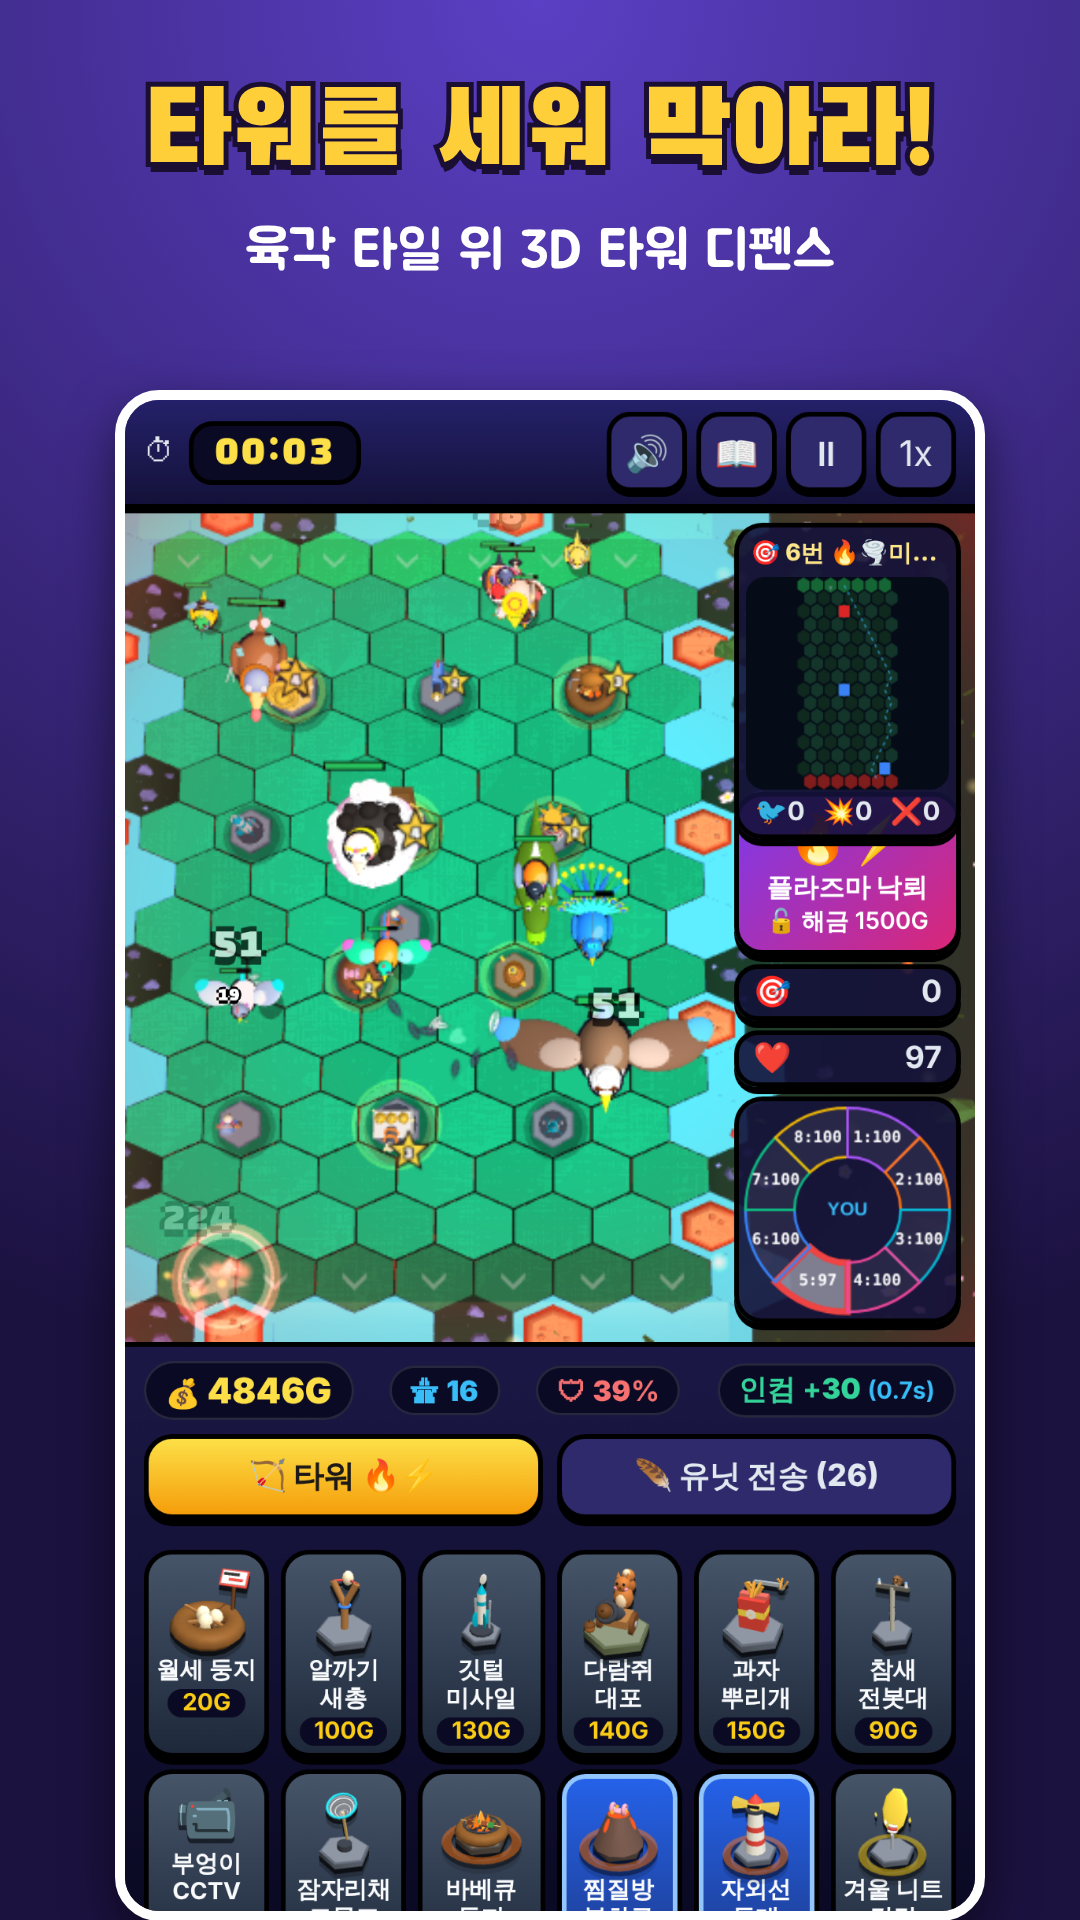
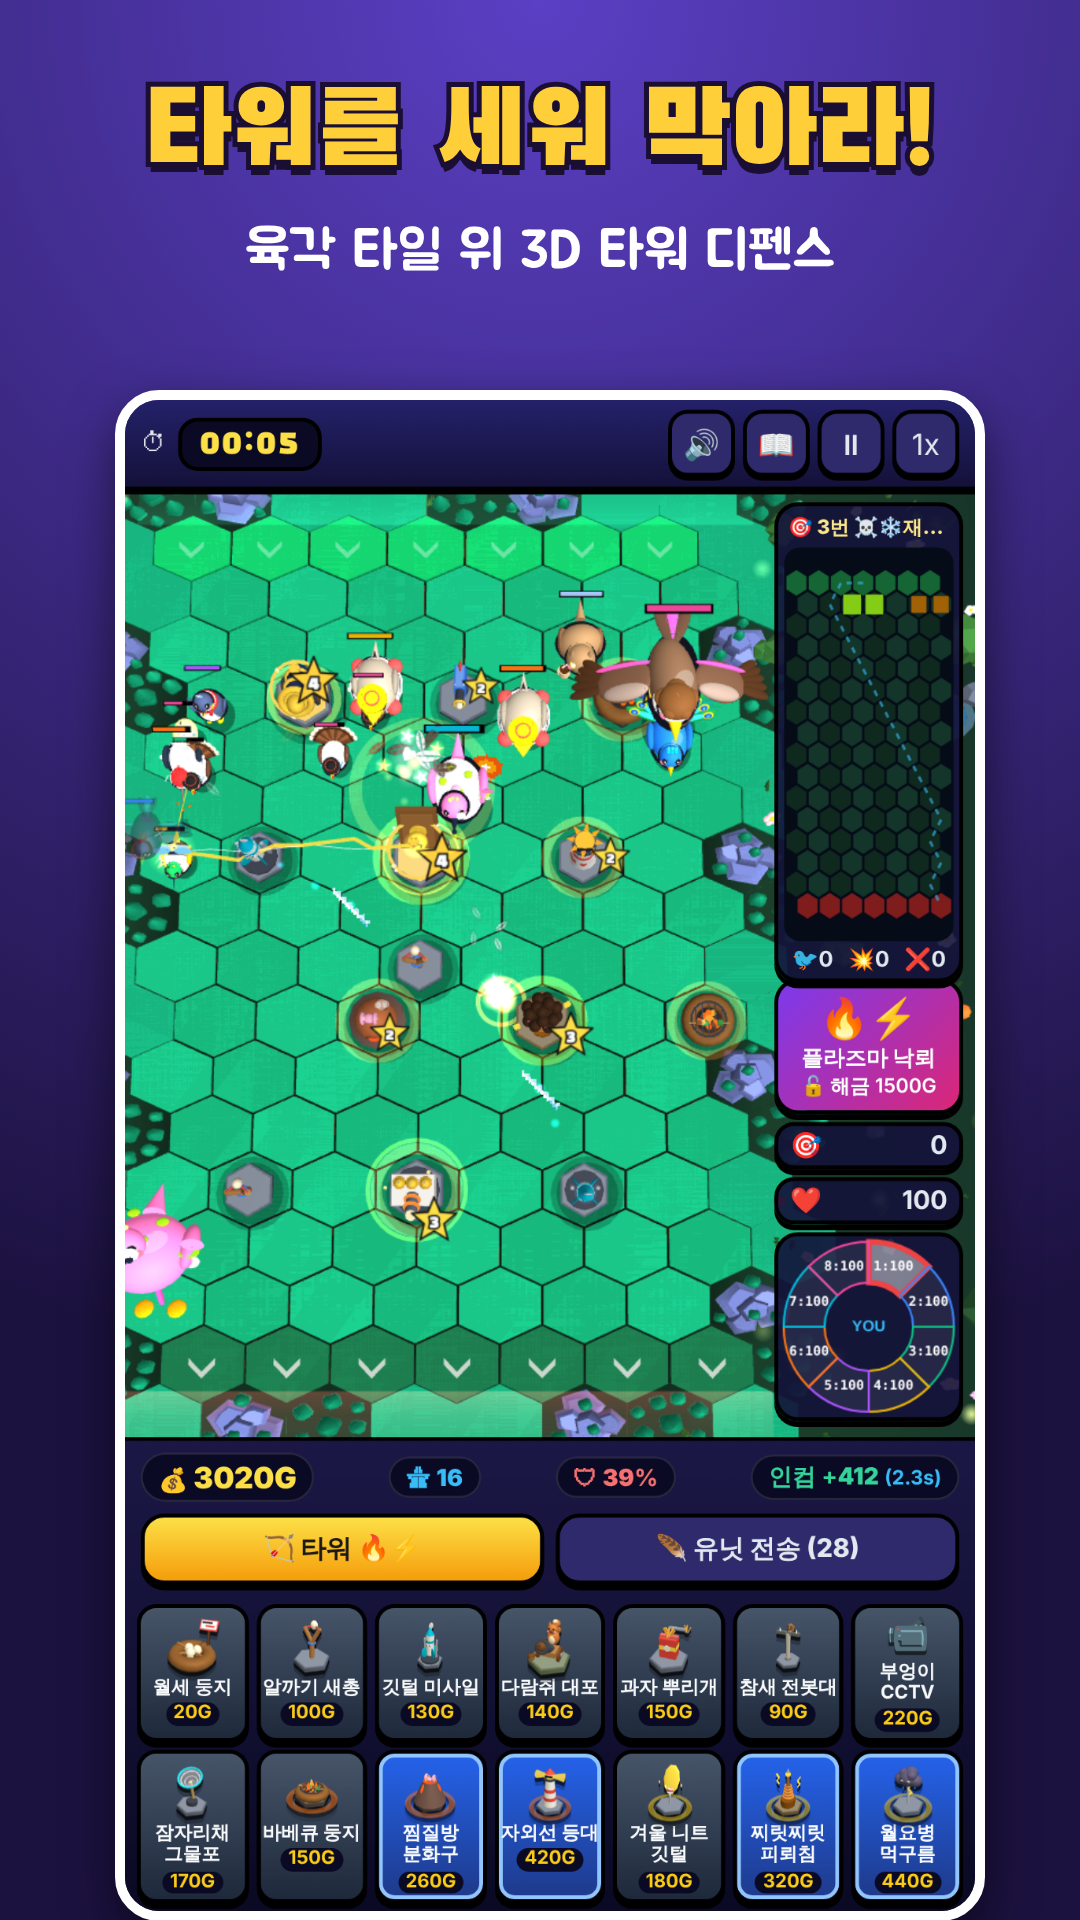
스토어 이미지 다시 뽑기: 스크린샷 8장·그래픽 이미지·og 카드·등록 문구 최신화
Claude-Session: https://claude.ai/code/session_01WdwmgQ1X9No8TXxhVpqQwz

diff --git a/tools/store_art/screenshots.js b/tools/store_art/screenshots.js
@@ -1,6 +1,6 @@
 const {chromium}=require('playwright');const SP=process.argv[2];
-const L=[['s2_battle','타워를 세워 막아라!','육각 타일 위 3D 타워 디펜스','#ffcf3a'],['s3_kill','이상한 새 55종 출동','발레리나 타조부터 악어새까지','#ff7aa8'],
-['s4_units','새를 보내 상대를 공격!','보낼수록 인컴이 쑥쑥','#6fe0ff'],['s5_result','8명 중 최후의 1인','원형으로 이어 달리는 릴레이 대전','#9dff7a'],['s1_lobby','나만의 영웅 새 꾸미기','모자·표정·이름까지 내 맘대로','#ffb347'],['s6_codex','개성 만점 새 도감','새마다 웃긴 사연이 있어요','#c4b5fd']];
+const L=[['s2_battle','타워를 세워 막아라!','육각 타일 위 3D 타워 디펜스','#ffcf3a'],['s3_weird','이상한 새 55종 출동','만원 버스 펠리컨부터 시조새까지','#ff7aa8'],
+['s8_skill','속성 조합 필살기!','5속성 중 2개를 골라 터뜨려요','#fb923c'],['s4_units','새를 보내 상대를 공격!','보낼수록 인컴이 쑥쑥','#6fe0ff'],['s7_mode','진화하는 알파고 AI','수천 판 스스로 학습한 AI와 대결','#a5f3fc'],['s5_result','8명 중 최후의 1인','원형으로 이어 달리는 릴레이 대전','#9dff7a'],['s1_lobby','나만의 영웅 새','좋아하는 새를 골라 이름을 붙여요','#ffb347'],['s6_codex','개성 만점 새 도감','새마다 웃긴 사연이 있어요','#c4b5fd']];
 (async()=>{const b=await chromium.launch();const pg=await b.newPage({viewport:{width:1080,height:1920}});
 for(const [i,[f,t,s,c]] of L.entries()){await pg.setContent(`<html><head><link rel="stylesheet" href="https://fonts.googleapis.com/css2?family=Black+Han+Sans&family=Jua&display=swap"></head>
 <body style="margin:0;width:1080px;height:1920px;overflow:hidden;background:radial-gradient(circle at 50% 0%,#5b3fc4,#1c1240 70%);font-family:'Black Han Sans',sans-serif;text-align:center">

diff --git a/tools/store_art/og_card.js b/tools/store_art/og_card.js
@@ -16,7 +16,7 @@ h1{margin:0;font:400 104px/1.02 'Black Han Sans';color:#ffd43b;-webkit-text-stro
 .n{position:absolute;left:50%;bottom:-24px;transform:translateX(-50%);white-space:nowrap;background:#140b33;color:#fde68a;border-radius:99px;padding:5px 16px 3px;font-size:24px;border:3px solid #fff}
 </style></head><body><div class="bg"></div><div class="sh"></div>
 <div class="l"><div class="sir">🚨 AI 속보</div><h1>새떼 주의보</h1><div class="sub">짹짹 디펜스</div><div class="t">8명이 이어 달리는 <b>새떼 타워 디펜스</b></div>
-<div class="bd"><span>🐦 이상한 새 55종</span><span>🏹 타워 42종</span><span>✨ 조합 스킬 10종</span><span>👥 8인 대전</span></div></div>
+<div class="bd"><span>🐦 이상한 새 55종</span><span>🏹 타워 41종</span><span>🤖 알파고 AI</span><span>👥 8인 대전</span></div></div>
 <div class="cta">▶ 설치 없이 바로 플레이</div>
 <div class="c" style="left:672px;top:258px;transform:rotate(-12deg);background-image:url(${U('dodo')})"><div class="n">각설이 도도새</div></div>
 <div class="c" style="left:948px;top:300px;width:236px;height:236px;transform:rotate(11deg);background-image:url(${U('parrot')})"><div class="n">욕쟁이 앵무새</div></div>

diff --git a/tools/store_art/feature_graphic.js b/tools/store_art/feature_graphic.js
@@ -16,7 +16,7 @@ h1{margin:0;font:400 104px/1.02 'Black Han Sans';color:#ffd43b;-webkit-text-stro
 .n{position:absolute;left:50%;bottom:-24px;transform:translateX(-50%);white-space:nowrap;background:#140b33;color:#fde68a;border-radius:99px;padding:5px 16px 3px;font-size:24px;border:3px solid #fff}
 </style></head><body><div class="bg"></div><div class="sh"></div>
 <div class="l"><div class="sir">🚨 AI 속보</div><h1>새떼 주의보</h1><div class="sub">짹짹 디펜스</div><div class="t">8명이 이어 달리는 <b>새떼 타워 디펜스</b></div>
-<div class="bd"><span>🐦 이상한 새 55종</span><span>🏹 타워 42종</span><span>✨ 조합 스킬 10종</span><span>👥 8인 대전</span></div></div>
+<div class="bd"><span>🐦 이상한 새 55종</span><span>🏹 타워 41종</span><span>🤖 알파고 AI</span><span>👥 8인 대전</span></div></div>
 
 <div class="c" style="left:672px;top:258px;transform:rotate(-12deg);background-image:url(${U('dodo')})"><div class="n">각설이 도도새</div></div>
 <div class="c" style="left:948px;top:300px;width:236px;height:236px;transform:rotate(11deg);background-image:url(${U('parrot')})"><div class="n">욕쟁이 앵무새</div></div>

diff --git a/CLAUDE.md b/CLAUDE.md
@@ -122,3 +122,4 @@
 - 🧱 **v15.4 후반 헛손질 수정**(2026-11-17 사용자 헬 17분 캡처 '뒷줄·측면에 계속 벽 짓고 업그레이드·철거', 골드 10만+ 남음): ① 진짜 버그 — `mzRepair`가 설계도 밖 **모든 공격 타워**를 철거 대상으로 봐서(두루미 한 번만 와도 `p.crHit`가 계속 남음) 빈칸 채우기로 지은 타워를 부수고 다시 짓는 무한 반복 → 이제 두루미가 옮긴 `t.mvd`만, 없으면 `crHit=0`. ② 빈칸 채우기(`fz`=mzFull&&미로)에선 벽 금지 + 길을 2칸 이상 덮는(`pathCov>=2`) 칸만. ③ 골드 2만+면 act 첫머리에서 70% 확률로 `buyU(dump)`. ④ `jugTick`은 600초까지만. 측정 스크래치 churn.js(10분 뒤 분당 설치·철거·벽·교체·업글, 12·15분 골드): 헬 설치 319→75·철거 312→67·벽 107→0.2·남는 골드 최대 38k→10k, 게임 12.7→13.8분. 남은 설치·철거는 대부분 철거반장 두루미 집기(분당 157회, 정상). 알파고 12.0→12.6분. 업그레이드(분당 ~120)는 돈 많을 때 정상 행동이라 그대로.
 - 💀 **v15.5 탈락 판 통과**(2026-11-17 사용자 요청 '탈락 즉시 새가 다 넘어가 너무 몰림'): 탈락 처리(step 끝 `p.alive=false`)에서 새 일괄 이동·`p.grid` 초기화를 없앰 → 유닛 루프가 `dead=!p.alive`면 새 이동·도트·능력만 돌리고 `lay` 뒤 `return`(타워·CCTV·과자·독구름·전깃줄 정지), `escape`는 탈락한 판이면 피해·통계 없이 `nextAlive`로 넘김. 헬 12판: 탈락 판 새 최대 45~383마리가 걸어서 빠져나감, 게임 13.8→14.0분, 오류 0. 측정 스크래치 dead.js. ⚠ 탈락 판 새가 도트로 죽으면 처치 보상은 탈락자에게(쓸 데 없음).
 - 🧬 **v15.6 알파고 5세대 학습**(2026-11-17 사용자 요청 '666판 학습·약한 전략은 다른 유전자와 조율해 새 유전자·예전 유전자 발전·난이도별 학습·랭킹'): 기준 랭킹(report A 64판) 하위 안정형 6.86·방해꾼 6.76·빙결뇌전 5.68·이자형 5.36·장인 5.15등 → `evolve.js`에 `SEEDN='약한|상위1|상위2…'`(약한 성향+상위 성향 교배로 시작) 추가, DK=A로 def·spec·c12·inc 2세대·up 1세대·smart2(상위 5개 교배) 2세대 = 660판(POP10 K6, 약 50분, 스크래치 ev2/run.sh). 결과 `tools/sim/alpha5.json` → game.js '🧬 5세대' 줄(ALPHA_COMBO 정의 뒤여야 함 — 앞에 두면 TDZ로 게임이 안 켜짐): ALPHA_ARCH def·spec·inc·up·새 smart5('알파 5세대') + SK(엘리트 5 평균) + ALPHA_COMBO.c12 + SIT_SK 갱신(aiLearn으로 난이도별 DIFF.learn만큼 교육). 진화 결과 대부분 상위 전략의 빙결+화염·kz/jug 유전자를 받아들임(inc·up·smart5 기본 유전자 거의 같음 — 다양성 줄어든 점 주의). 최종 랭킹 A 64판: 장인 2.33·이자형 2.64·안정형 2.96·화염폭풍 3.07·불꽃사냥꾼 3.19·5세대 3.47 … 빙결뇌전 3.78·방해꾼 4.88 / 새 하위: 전략가 6.41·눈사태 6.43·공중함대 6.50·빙결폭풍 6.50·미로술사·킬존 6.0(표본 2~8판이라 흔들림). 게임 시간 A 13.7→14.3분, H 17.1·X 15.4·Z 16.9분(32판씩, v15.4·15.5 영향 포함 — 길어짐, 조정 후보). 어려움·헬 상위는 이자형 계열(배운 inc SK).
+- 🖼 **스토어 이미지 다시 뽑기**(2026-11-17 사용자 요청): 스크린샷 8장 새로(`assets/store/screenshots/01~08`, 1080×1920) — 캡처 스크래치 shots.js(432×768·DSF 2.5 가상 시계, 로비·모드(알파고)·도감·전투·필살기·유닛 전송·결과, 이상한 새 장면은 3D 클로즈업이 미니맵에 가려 도감 펠리컨·두루미·시조새 화면으로 대체) → `tools/store_art/screenshots.js`(문구 목록 L 갱신: 꾸미기 문구 삭제, '진화하는 알파고 AI'·'속성 조합 필살기' 추가). 그래픽 이미지·og.jpg 뱃지 '타워 41종·🤖 알파고 AI'(1200×630 → 1024 폭으로 줄이고 위아래 잘라 1024×500). listing.md: 타워 41종, 새 예시(플라맹독·두루미·시조새), 종족 모드 줄 삭제, 알파고 AI 단락, 영웅 꾸미기 문구 수정. manifest 스크린샷 경로 갱신. 홍보 영상(trailer)은 아직 예전 것.

diff --git a/assets/store/listing.md b/assets/store/listing.md
@@ -13,10 +13,10 @@
 마지막까지 라이프를 지킨 단 한 명이 우승합니다.
 
 ■ 이상한 새 55종
-발레리나 타조, 욕쟁이 앵무새, 각설이 도도새, 만원 버스 펠리컨, 악어새, 벌새 떼…
+발레리나 타조, 욕쟁이 앵무새, 독침 뱉는 플라맹독, 타워를 들고 가는 철거반장 두루미, 만원 버스 펠리컨, 1억 5천만 년 만에 외출한 시조새…
 새마다 능력이 달라요. 떼로 몰려오고, 건물을 넘고, 화나면 빨라지고, 죽으면 승객을 쏟아냅니다.
 
-■ 타워 42종 · 5가지 속성
+■ 타워 41종 · 5가지 속성
 화염·빙결·뇌전·폭풍·독, 5가지 속성 중 2개를 골라 전용 타워를 열고 조합 스킬(10종)을 터뜨리세요.
 새를 덥석 물어 묶는 꿀꺽 파리지옥, 플라즈마 낙뢰 같은 필살기도 있어요.
 독 중첩, 화상 번짐, 연사 가속, 3타 치명타까지 타워마다 성격이 뚜렷해요.
@@ -29,16 +29,18 @@
 새를 보내면 매 라운드 수입(인컴)이 올라요. 공격과 수비 사이에서 언제 돈을 쓸지 고민하세요.
 
 ■ 다양한 모드
-· 일반 모드: AI 7명과 대결 (난이도 선택)
-· 종족 모드: 4가지 종족의 특별한 능력으로 대결
+· 일반 모드: AI 7명과 대결 (쉬움부터 헬, 알파고까지 6단계)
 · 온라인 대전(베타): 친구와 방 코드로 함께
 · 탈락해도 끝까지 관전 가능
+
+■ 스스로 진화하는 알파고 AI
+AI끼리 수천 판을 붙여 진화시킨 '알파고' 전략가들이 기다려요. 칠면조 러시, 독뇌전 미로, 불사조 테러… 전략마다 성격이 달라요. 난이도가 오를수록 AI가 알파고에게 배운 노하우로 더 영리하게 싸워요.
 
 ■ 뉴스새 'AI'의 긴급 속보
 드론 메카 병아리 'AI'가 사이렌을 울리며 날아와 "30초 뒤 피해 2배!"를 알려 줘요. 위기를 미리 대비하세요!
 
 ■ 나만의 영웅 새
-모자, 표정, 색, 이름까지 꾸민 내 영웅 새가 로비에서 기다려요.
+좋아하는 새를 골라 이름을 붙이면 내 영웅 새가 로비와 게임판에서 함께해요.
 
 광고 없이, 회원가입 없이 바로 플레이하세요!
 
@@ -57,7 +59,7 @@
 ## 그래픽 파일
 - 아이콘 512×512 (스토어용, 투명도 포함 32비트): assets/store/icon-512-store.png
 - 그래픽 이미지 1024×500: assets/store/feature-graphic-1024x500.png
-- 휴대전화 스크린샷 1080×1920: assets/store/screenshots/01~06
+- 휴대전화 스크린샷 1080×1920: assets/store/screenshots/01~08
 
 ## 개인정보처리방침 URL
 https://ddarkzi.github.io/jjak-relay-defense/privacy.html

diff --git a/assets/store/RELEASE_CHECKLIST.md b/assets/store/RELEASE_CHECKLIST.md
@@ -43,7 +43,7 @@
 - 스토어 글: `assets/store/listing.md` (이름·짧은 설명·자세한 설명·등급 설문 참고)
 - 아이콘 512×512: `assets/store/icon-512-store.png` — 마스코트 AI(사이렌 드론 병아리)
 - 그래픽 이미지 1024×500: `assets/store/feature-graphic-1024x500.png`
-- 휴대전화 스크린샷 6장(1080×1920): `assets/store/screenshots/`
+- 휴대전화 스크린샷 8장(1080×1920, 2026-11-17 다시 찍음): `assets/store/screenshots/`
 - 홍보 영상: 가로 `trailer_16x9.mp4` / 세로 `trailer_vertical_9x16.mp4` (유튜브에 올려 링크 사용)
 - PWA: manifest(이름·아이콘·id·스크린샷), 서비스 워커, 세로 고정
 
